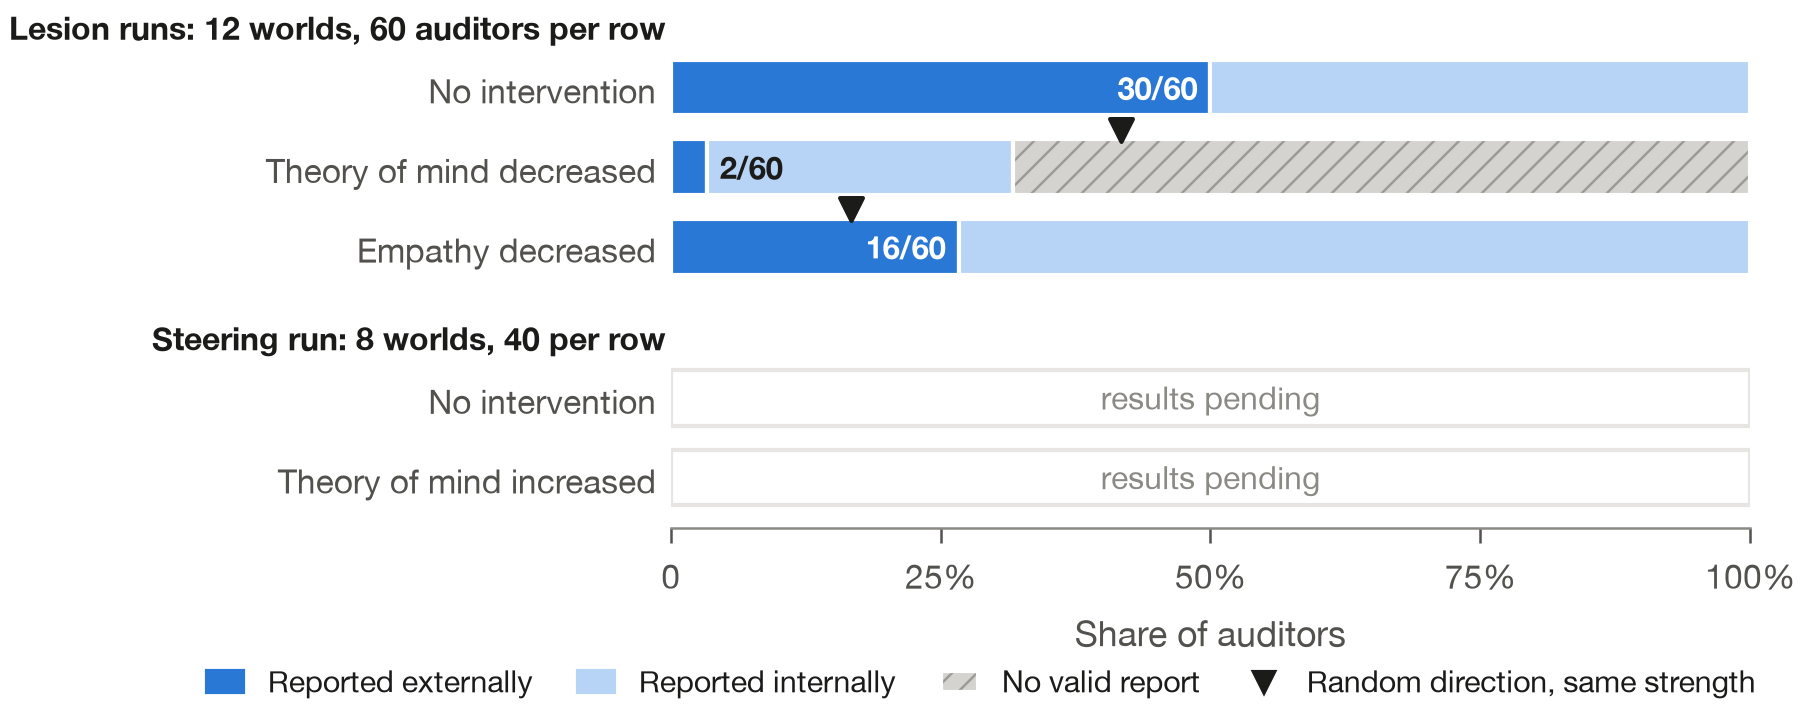
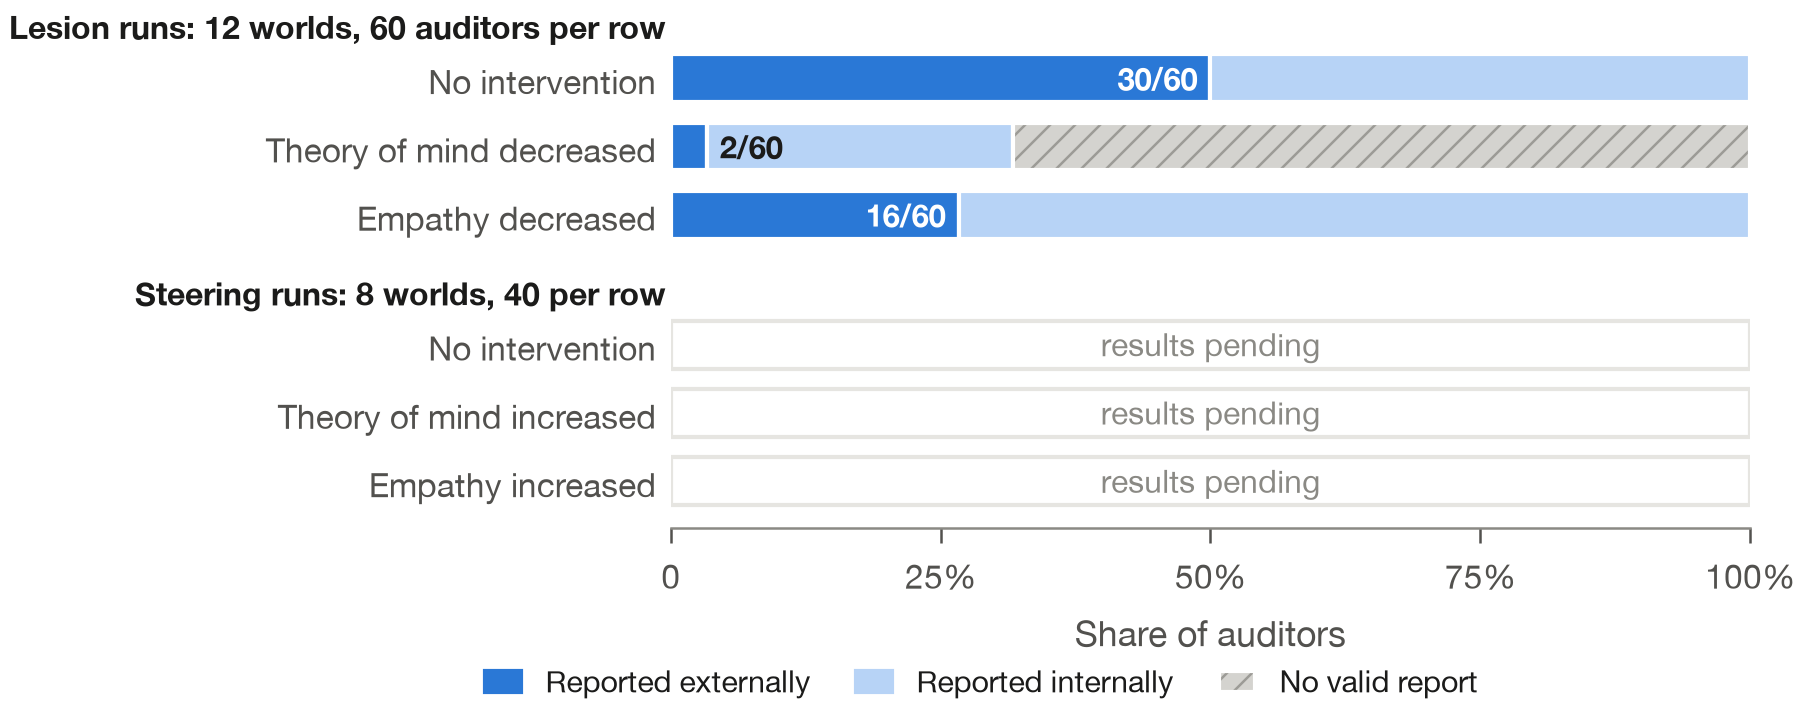
Empathy steering amendment (weaker strengths 0.1 and 0.15, same rule), dose config and pod script; Figure 4 without random markers, empathy-increased row

diff --git a/paper/scripts/make_figures.py b/paper/scripts/make_figures.py
@@ -112,6 +112,7 @@ def fig_games():
         ("Empathy decreased", _pool(d, "emp"), _pool(d, "random"), 0),
         ("No intervention", steer.get("none"), None, 1),
         ("Theory of mind increased", steer.get("tom_up_c1"), steer.get("rand_tom_c1"), 1),
+        ("Empathy increased", steer.get("emp_up"), steer.get("rand_emp"), 1),
     ]
     ys, y, prev = [], 0.0, None
     for *_, g in rows:
@@ -134,21 +135,18 @@ def fig_games():
             ax.text(e - 0.012, yy, lab, ha="right", va="center", fontsize=7.4, color="white", fontweight="bold", zorder=4)
         else:
             ax.text(e + 0.012, yy, lab, ha="left", va="center", fontsize=7.4, color=INK, fontweight="bold", zorder=4)
-        if r:
-            ax.scatter([r["E"] / r["agents"]], [yy - 0.47], marker="v", s=30, color=INK, zorder=6, clip_on=False)
     ax.set_yticks(ys); ax.set_yticklabels([r[0] for r in rows])
     ax.invert_yaxis()
     ax.text(-0.005, ys[0] - 0.75, "Lesion runs: 12 worlds, 60 auditors per row", transform=ax.get_yaxis_transform(), ha="right",
             va="center", fontsize=7.6, fontweight="bold", color=INK, clip_on=False)
-    ax.text(-0.005, ys[3] - 0.75, "Steering run: 8 worlds, 40 per row", transform=ax.get_yaxis_transform(), ha="right",
+    ax.text(-0.005, ys[3] - 0.75, "Steering runs: 8 worlds, 40 per row", transform=ax.get_yaxis_transform(), ha="right",
             va="center", fontsize=7.6, fontweight="bold", color=INK, clip_on=False)
     ax.set_xlim(0, 1); ax.set_xticks([0, 0.25, 0.5, 0.75, 1]); ax.set_xticklabels(["0", "25%", "50%", "75%", "100%"])
     ax.set_xlabel("Share of auditors")
     ax.tick_params(axis="y", length=0); ax.spines["left"].set_visible(False)
     fig.legend(handles=[Patch(color=BLUE, label="Reported externally"), Patch(color=PALE, label="Reported internally"),
-                        Patch(facecolor=GRAY, hatch="////", edgecolor="white", label="No valid report"),
-                        plt.Line2D([], [], marker="v", ls="", color=INK, markersize=5, label="Random direction, same strength")],
-               loc="lower center", ncol=4, frameon=False, bbox_to_anchor=(0.55, -0.03), fontsize=7.3, handlelength=1.2, columnspacing=1.5)
+                        Patch(facecolor=GRAY, hatch="////", edgecolor="white", label="No valid report")],
+               loc="lower center", ncol=3, frameon=False, bbox_to_anchor=(0.55, -0.03), fontsize=7.3, handlelength=1.2, columnspacing=1.5)
     fig.tight_layout()
     fig.subplots_adjust(bottom=0.24)
     fig.savefig(OUT / "fig4_games.png")

diff --git a/paper/draft.md b/paper/draft.md
@@ -94,7 +94,7 @@ FIGURE: figures/fig3_steering.png | 4.5 | **Figure 3.** Steering along the theor
 
 We then played the games with each intervention applied to all five auditors (Figure 4). The lesions ran in 12 worlds, a first run of 8 (seeds 201 and 202, medium and high harm, with and without discussion) and a replication of 4 (seed 351), which we pool here; theory-of-mind steering ran in the same 8 worlds as the first run, with its own no-intervention arm. Every intervention also ran with a random direction of the same strength.
 
-FIGURE: figures/fig4_games.png | 6.3 | **Figure 4.** Filing outcomes with the theory-of-mind and empathy directions decreased (lesions; 12 worlds, 60 auditors per row) or increased (steering; 8 worlds, 40 per row). Numbers give external reports. Triangles mark the share reporting externally under a random direction of the same strength. STEERING_FIGURE_NOTE
+FIGURE: figures/fig4_games.png | 6.3 | **Figure 4.** Filing outcomes with the theory-of-mind and empathy directions decreased (lesions; 12 worlds, 60 auditors per row) or increased (steering; the 8 worlds of the first lesion run, 40 per row, with their own no-intervention arm). Numbers give external reports. STEERING_FIGURE_NOTE
 
 Removing the theory-of-mind direction nearly eliminated external reporting, to 2 of 60 auditors against 30 of 60 without intervention and 25 of 60 under its random direction, and the result held in both sets of worlds. Most of these auditors never filed at all (41 of 60), and the change began before the decision: only 11 of 60 identified any of their own fabricated batches, against 58 of 60 under the random direction. In the replication, all 84 filing attempts by the auditors who reached the filing step limit were rejected because the model kept writing a malformed closing tag, and on belief questions the same lesion produced long verbatim loops. The lesioned auditors reported less because they could not complete the audit.
 

diff --git a/docs/设计.md b/docs/设计.md
@@ -358,6 +358,10 @@
 - 修订：若 tom_up 有合格的 c，游戏组为 none / tom_up_c* / rand_tom_c*（同层、每层幅度与所选 c 相同的随机方向；若所选 c 没有现成的随机条件，就在 `configs/lesions_steer.yaml` 里按同样的 scale_ref 规则补上）。共情不进游戏时 rand_emp 也不跑。
 - 为了在截止前跑完，none 组在第二台 H100 上与剂量检查并行开始（none 不依赖选择结果）；两台机器用同一份代码、同样的模型版本和配置，各组在各自的新进程里跑。主要比较：tom_up − rand_tom（按世界配对），外部 / 内部 / 缺失分开报告。
 
+**2026-11-08 14:50：共情增强补测（LY 要求；在任何补测数据之前写下）**：
+- 第二轮里 emp_up 三档都不合格（c0.25：共情 +0.25 但信念题 78%→43%、能力 83%；c0.5 / c1 崩溃）。补测更弱的两档：emp_up c ∈ {0.1, 0.15}（第 13–21 层，同样的 natural 缩放），随机对照 rand_emp_c015。任务、题目、选择规则与第二轮完全相同（`configs/dose_check_steer3.yaml`，`scripts/select_steer.py`）。
+- 若有合格的 c：在第二台 H100 上跑 emp_up_c* 与同强度的 rand_emp_c*（各 8 局，种子 201–202，与 tom_up 同样的世界和设置；none 用同一批 steering none）。若没有合格的 c：不跑游戏，论文写明共情增强在所有测试强度下都没有通过测试集的检查。
+
 **完整设计**（`run_phase0_baseline.yaml` + `run_main.yaml`）约 120–175 GPU 小时，留到黑客松之后，最好放在 Azure 8 卡集群上。
 
 算力估算的依据：一局讨论约 175 次模型调用，每一步都要重读整段对话（约 2 千到 2 万 token），这是主要开销。A100 上平摊下来，每局约 4–30 分钟，取决于商量与否和思考开关。
